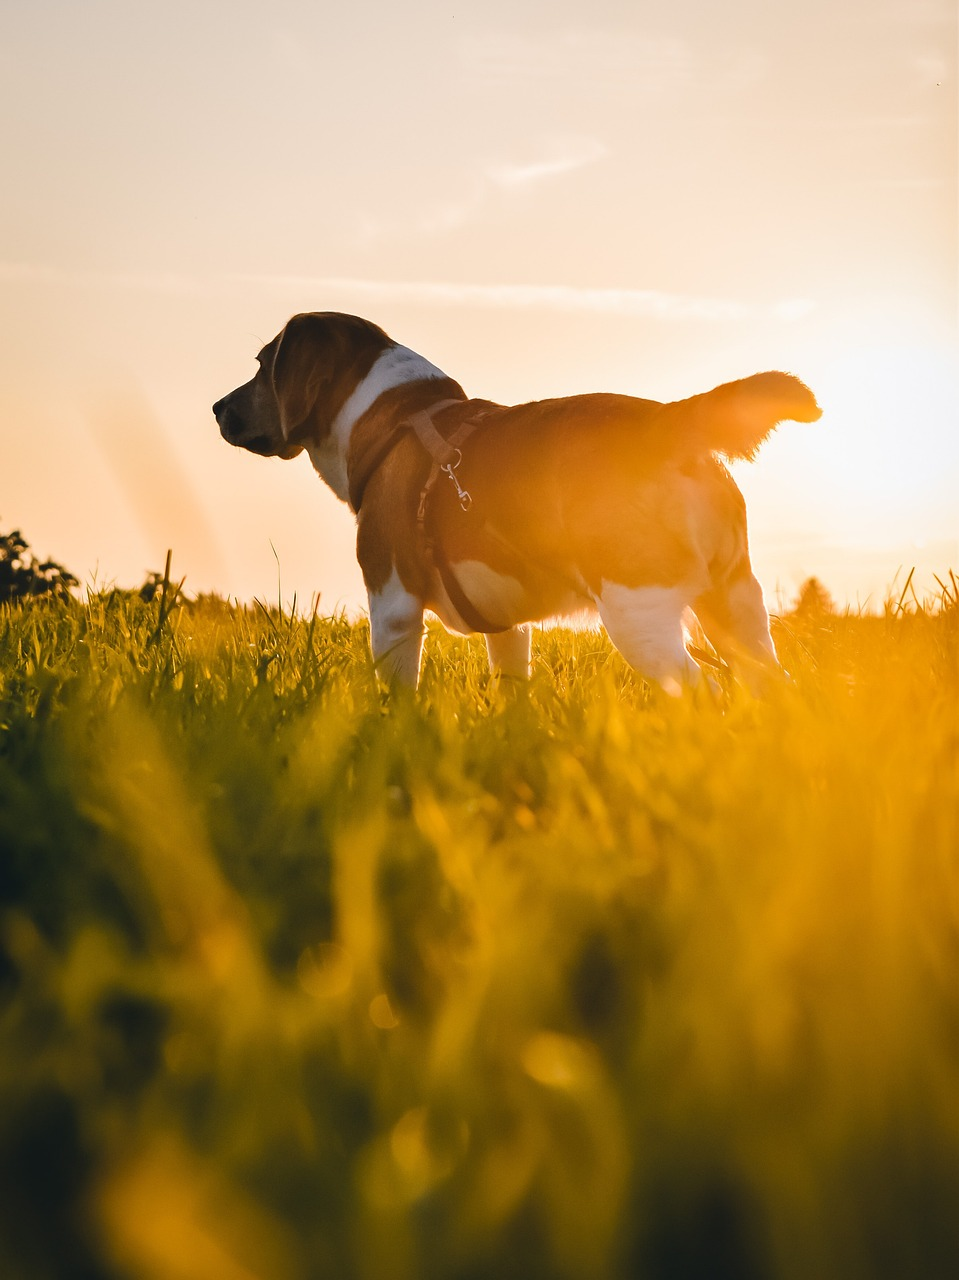
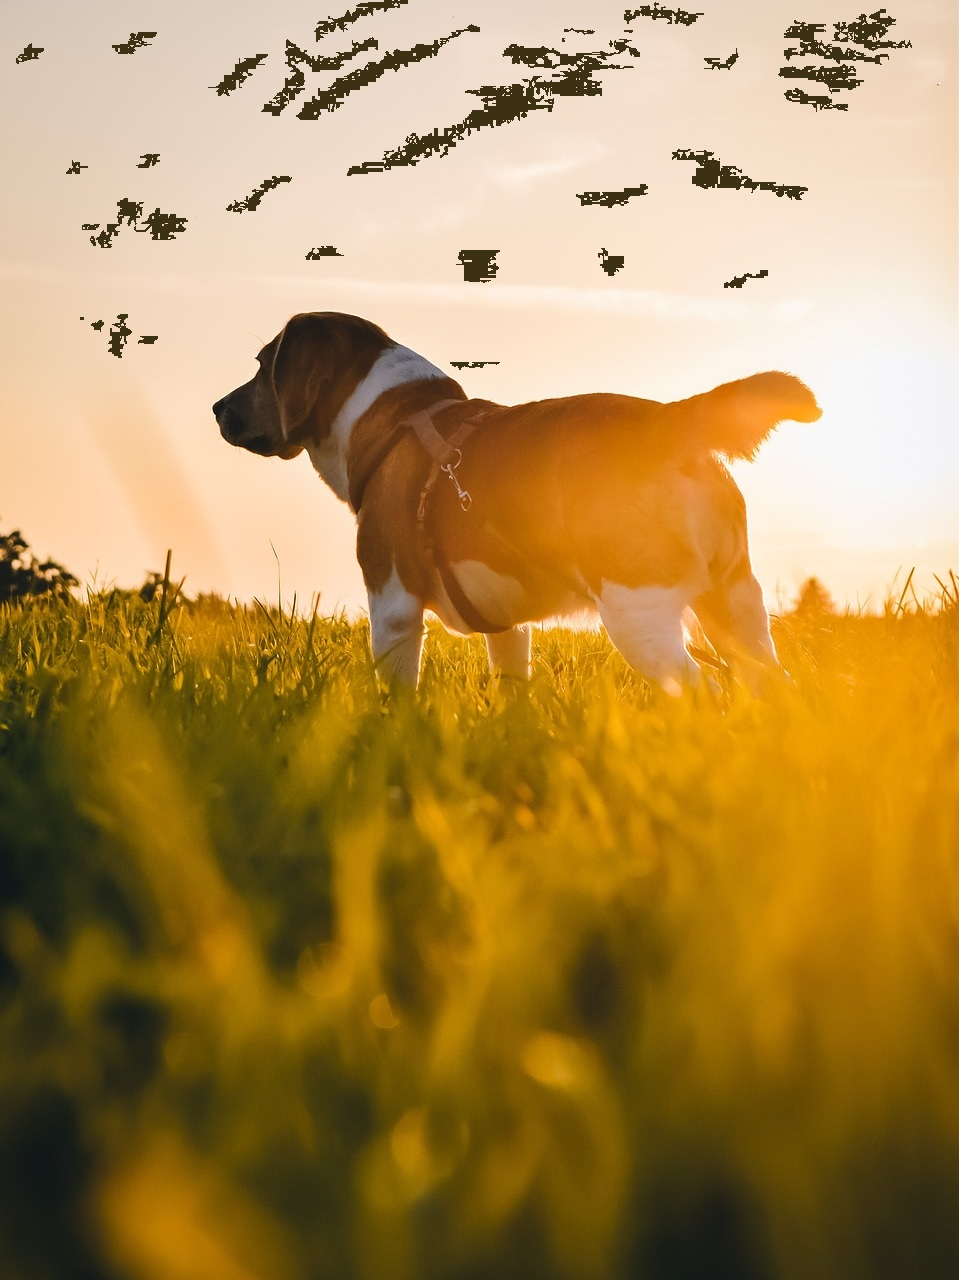
Updated the background & added gif

diff --git a/index.html b/index.html
@@ -10,6 +10,10 @@
       integrity="sha384-1BmE4kWBq78iYhFldvKuhfTAU6auU8tT94WrHftjDbrCEXSU1oBoqyl2QvZ6jIW3"
       crossorigin="anonymous"
     />
+    <script
+      src="https://kit.fontawesome.com/333c7b4d75.js"
+      crossorigin="anonymous"
+    ></script>
     <link rel="stylesheet" href="style.css" />
   </head>
   <body>
@@ -17,54 +21,65 @@
       <div class="navbar">
         <h3>Landing page</h3>
         <ul>
-          <li>Home</li>
-          <li>About</li>
-          <li>Services</li>
-          <li>Contact</li>
+          <a href="#"><li>Home</li></a>
+
+          <a href="#about"><li>About</li></a>
+
+          <a href="#service"><li>Services</li></a>
+
+          <a href="#contact"><li>Contact</li></a>
         </ul>
       </div>
       <h1>Puppy-Care</h1>
       <p class="slogan">Wanna adopt a puppy? We got you!</p>
     </header>
-    <div class="about-heading">About us</div>
-    <content id="about">
-      <div class="image-container">
-        <img src="images/puppy3.jpg" width="300" class="image1" alt="" />
-        <img src="images/puppy1.jpg" width="300" class="image2" alt="" />
+    <div class="content">
+      <div class="about-heading">About us</div>
+      <div id="about">
+        <div class="image-container">
+          <img src="images/puppy3.jpg" width="300" class="image1" alt="" />
+          <img src="images/puppy1.jpg" width="300" class="image2" alt="" />
+        </div>
+
+        <p class="about-paragraph">
+          Puppy-Care is a compassionate and dedicated company committed to the
+          <br />
+          well-being of our four-legged friends. Specializing in the adoption
+          and
+          <br />
+          healthcare of various puppy breeds, Puppy-Care strives to create
+          loving
+          <br />
+          and lasting connections between adorable puppies and caring families.
+          <br />
+          Our adoption program ensures that each puppy finds a forever home
+          where
+          <br />
+          they will be cherished and nurtured. In addition to our adoption
+          <br />
+          services, Puppy-Care takes pride in providing top-notch healthcare for
+          <br />
+          puppies, offering a range of veterinary services to keep them happy
+          and
+          <br />
+          healthy. With a team of experienced and compassionate professionals,
+          Puppy-Care <br />
+          stands as a trusted partner in the journey of pet ownership, promoting
+          <br />
+          responsible and joyful relationships between puppies and their new
+          families.
+        </p>
       </div>
 
-      <p class="about-paragraph">
-        Puppy-Care is a compassionate and dedicated company committed to the
-        <br />
-        well-being of our four-legged friends. Specializing in the adoption and
-        <br />
-        healthcare of various puppy breeds, Puppy-Care strives to create loving
-        <br />
-        and lasting connections between adorable puppies and caring families.
-        <br />
-        Our adoption program ensures that each puppy finds a forever home where
-        <br />
-        they will be cherished and nurtured. In addition to our adoption <br />
-        services, Puppy-Care takes pride in providing top-notch healthcare for
-        <br />
-        puppies, offering a range of veterinary services to keep them happy and
-        <br />
-        healthy. With a team of experienced and compassionate professionals,
-        Puppy-Care <br />
-        stands as a trusted partner in the journey of pet ownership, promoting
-        <br />
-        responsible and joyful relationships between puppies and their new
-        families.
-      </p>
-    </content>
-    <div class="services">
-      <div class="service-heading">What we offer</div>
-      <div class="backgrounds">
-        <div class="background-adoption">
-          <button>Puppy Adoption</button>
-        </div>
-        <div class="background-health">
-          <button>Puppy Healthcare</button>
+      <div class="services">
+        <div class="service-heading">What we offer</div>
+        <div class="backgrounds">
+          <div class="background-adoption">
+            <button class="service-btn">Puppy Adoption</button>
+          </div>
+          <div class="background-health">
+            <button class="service-btn">Puppy Healthcare</button>
+          </div>
         </div>
       </div>
     </div>
@@ -73,39 +88,65 @@
     </div>
     <form>
       <div class="mb-5">
-        <label for="exampleInputEmail1" class="form-label"
-          >Your name & surname</label
-        >
-        <input type="text" class="form-control" aria-describedby="emailHelp" />
-      </div>
-      <div class="mb-5">
-        <label for="exampleInputEmail1" class="form-label">Email address</label>
-        <input type="text" class="form-control" aria-describedby="emailHelp" />
-      </div>
-      <div class="mb-5">
-        <label for="exampleInputEmail1" class="form-label">Type of breed</label>
-        <input type="search" class="form-control" />
-      </div>
-      <div class="mb-5">
-        <label for="exampleInputEmail1" class="form-label"
-          >Puppy age preferred</label
-        >
+        <label for="name&surname" class="form-label">Your name & surname</label>
         <input
-          type="number"
+          type="text"
           class="form-control"
-          aria-describedby="emailHelp"
+          aria-describedby="name&surname"
+          id="name&surname"
+          autocomplete="none"
         />
       </div>
       <div class="mb-5">
-        <label for="exampleInputEmail1" class="form-label"
-          >Puppy sex preferred</label
-        >
-        <input type="text" class="form-control" aria-describedby="emailHelp" />
+        <label for="exampleInputEmail1" class="form-label">Email address</label>
+        <input
+          type="text"
+          class="form-control"
+          aria-describedby="emailHelp"
+          id="exampleInputEmail1"
+          autocomplete="none"
+        />
       </div>
-      <button type="submit">Submit</button>
+      <div class="mb-5">
+        <label for="typeBreed" class="form-label">Type of breed</label>
+        <input
+          type="search"
+          class="form-control"
+          aria-describedby="typeBreed"
+          id="typeBreed"
+          autocomplete="none"
+        />
+      </div>
+      <div class="mb-5">
+        <label for="age" class="form-label">Puppy age preferred</label>
+        <input
+          type="number"
+          class="form-control"
+          aria-describedby="age"
+          id="age"
+          autocomplete="none"
+        />
+      </div>
+      <div class="mb-5">
+        <label for="sex" class="form-label">Puppy sex preferred</label>
+        <input
+          type="text"
+          class="form-control"
+          aria-describedby="sex"
+          id="sex"
+          autocomplete="none"
+        />
+      </div>
+      <button type="submit" class="submit-btn">Submit</button>
     </form>
     <footer>
-      <div>Footer</div>
+      <p class="text-center media-heading">Contact Us</p>
+      <div class="contact-icons text-center">
+        <i class="fa-brands fa-twitter"></i>
+        <i class="fa-brands fa-facebook"></i>
+        <i class="fa-brands fa-linkedin"></i>
+        <i class="fa-brands fa-instagram"></i>
+      </div>
     </footer>
   </body>
 </html>

diff --git a/style.css b/style.css
@@ -1,20 +1,34 @@
-body {
+* {
+  margin: 0;
+  padding: 0;
+  box-sizing: border-box;
+}
+
+.content {
   font-family: monospace;
-  background-image: url("images/background.jpg");
+  background-image: url("images/background2.jpg");
   background-repeat: no-repeat;
   background-size: cover;
   background-attachment: scroll;
-  background-origin: content-box;
 }
 
 header {
   padding: 30px;
-  border: 2px solid black;
 }
 
 .navbar {
   display: flex;
   justify-content: space-between;
+}
+
+.navbar a {
+  text-decoration: none;
+  color: green;
+}
+
+.navbar a:hover {
+  cursor: pointer;
+  text-decoration: underline;
 }
 
 ul {
@@ -23,29 +37,36 @@ ul {
 }
 
 ul li {
-  padding: 10px;
+  padding: 8px;
   margin-right: 20px;
-  font-size: 30px;
+  font-size: 20px;
+  font-weight: bold;
 }
 
 h3 {
+  color: green;
   margin-left: 20px;
 }
 
 h1 {
+  font-family: fantasy;
   text-align: center;
-  font-size: 70px;
+  font-size: 100px;
   margin: 50px;
+  color: green;
 }
 
-.slogan,
 .about-heading,
 .contact-heading,
 .service-heading {
   font-size: 50px;
+  font-family: fantasy;
 }
 
 .slogan {
+  font-family: fantasy;
+  font-size: 45px;
+  color: brown;
   text-align: center;
 }
 
@@ -58,6 +79,9 @@ h1 {
 .about-heading {
   text-align: right;
   margin: 50px;
+  color: green;
+  padding-right: 40px;
+  font-family: fantasy;
 }
 
 .image-container {
@@ -85,8 +109,10 @@ h1 {
 }
 
 .about-paragraph {
+  color: black;
   line-height: 2;
   font-size: 20px;
+  font-weight: bold;
 }
 
 .background-health {
@@ -106,13 +132,15 @@ h1 {
   justify-content: center;
 }
 
-button {
+.service-btn {
+  font-family: fantasy;
   margin: 0 45px;
   padding: 20px;
   border: none;
   border-radius: 5px 7px;
-  box-shadow: 4px 4px gray;
+  box-shadow: 10px 10px 10px 6px rgb(138, 92, 24);
   font-size: 20px;
+  color: rgb(20, 129, 6);
 }
 
 .background-adoption,
@@ -122,17 +150,23 @@ button {
   display: flex;
   margin: 20px;
   align-items: center;
-  color: white;
+  border: 5px solid white;
+}
+
+.background-adoption::before,
+.background-health::before {
+  filter: blur(7px);
+  z-index: -1;
 }
 
 .contact-heading {
-  color: white;
+  color: green;
   text-align: center;
   margin-top: 60px;
 }
 
 .service-heading {
-  color: white;
+  color: black;
   text-align: center;
   margin-top: 100px;
 }
@@ -146,10 +180,35 @@ form {
 .form-control {
   max-width: 50%;
   width: 100%;
+  border-radius: 6px 6px;
+  box-shadow: 4px 4px 4px rgb(77, 128, 77);
 }
 
 .form-label {
-  color: white;
+  color: green;
   font-size: 20px;
   font-weight: bold;
+}
+
+.submit-btn {
+  padding: 15px;
+  border: none;
+  background-color: green;
+  color: blanchedalmond;
+  box-shadow: 3px 3px black;
+  border-radius: 4px 4px;
+}
+
+.contact-icons {
+  align-items: center;
+  font-size: 50px;
+  color: green;
+  padding: 20px;
+  margin: 20px;
+}
+
+.media-heading {
+  font-size: 30px;
+  color: green;
+  margin: 40px;
 }
